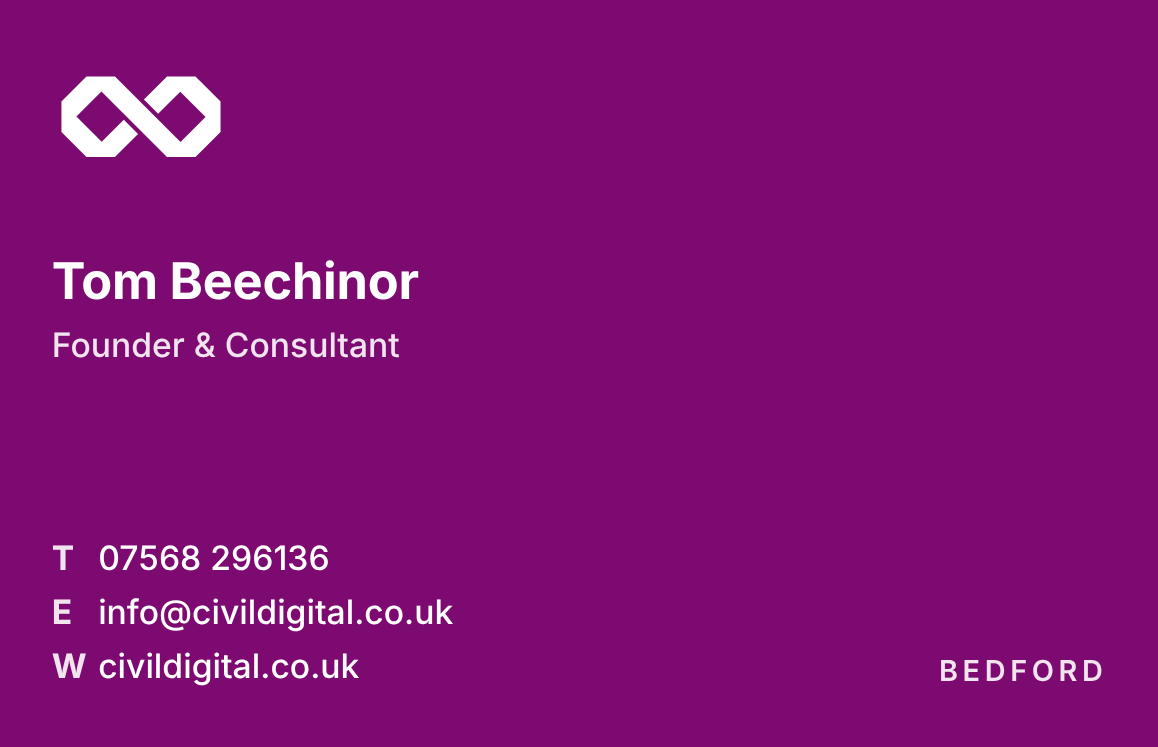
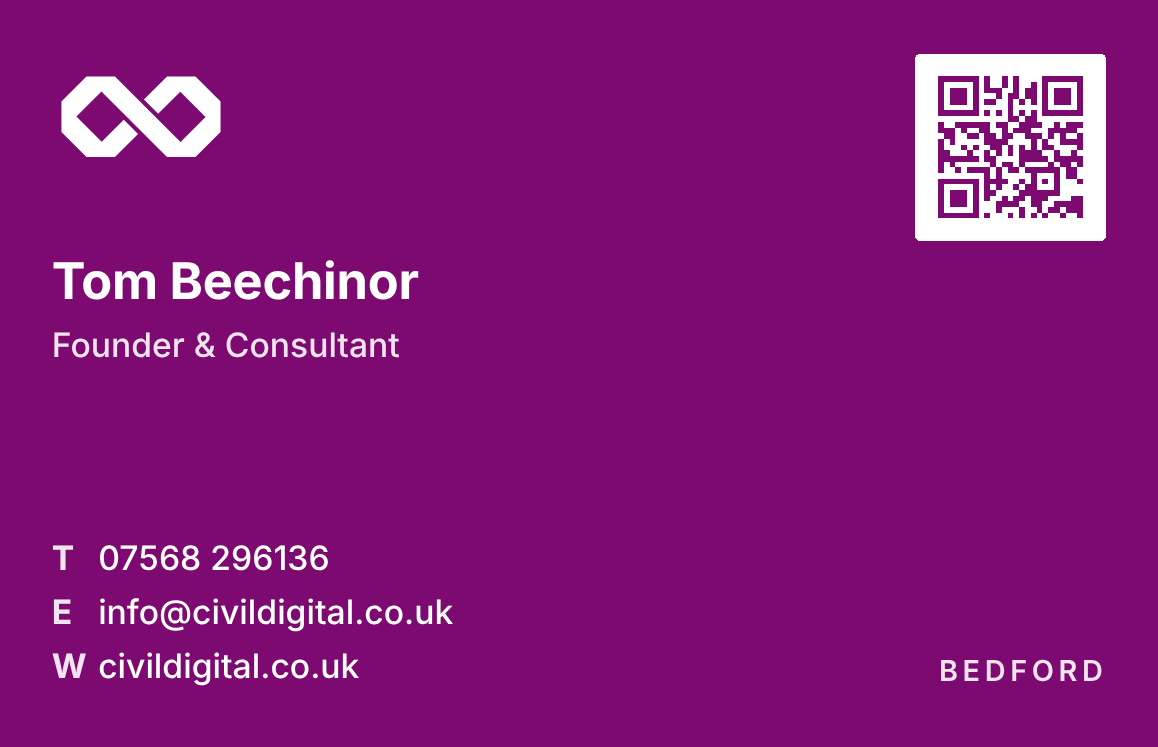
Business cards: QR code to civildigital.co.uk on the back
14mm plum-on-white QR (version 2, ECC M, 4-module quiet zone) in the
top right, generated as vector SVG by make-qr.py.

Claude-Session: https://claude.ai/code/session_01S9fFBHi5pCMoDRq2QMyZdX

Changed region(s): [[0.7772, 0.0616, 0.9637, 0.3387]]

diff --git a/docs/business-cards/business-cards.html b/docs/business-cards/business-cards.html
@@ -70,6 +70,9 @@
   .back .mark {
     position: absolute; left: var(--safe); top: calc(var(--safe) - 1.8mm); width: 13mm;
   }
+  .back .qr {
+    position: absolute; right: var(--safe); top: var(--safe); width: 14mm; height: 14mm;
+  }
   .back .who { position: absolute; left: var(--safe); top: calc(var(--bleed) + 19mm); }
   .back .name { font-size: 10.5pt; font-weight: 700; letter-spacing: -.005em; line-height: 1.2; }
   .back .role { font-size: 7pt; font-weight: 500; color: var(--on-plum); margin-top: .8mm; }
@@ -104,6 +107,7 @@
 
   <section class="card back" aria-label="Back">
     <img class="mark" src="../../assets/brand/CivilDigitalIconWhite.svg" alt="">
+    <img class="qr" src="qr-civildigital.svg" alt="QR code: civildigital.co.uk">
     <div class="who">
       <p class="name">Tom Beechinor</p>
       <p class="role">Founder &amp; Consultant</p>

diff --git a/docs/business-cards/make-qr.py b/docs/business-cards/make-qr.py
@@ -1,0 +1,42 @@
+"""Writes qr-civildigital.svg, the QR code on the back of the card.
+
+    python3 make-qr.py
+
+Links to https://civildigital.co.uk. Plum modules on a white tile; the tile
+is the standard 4-module quiet zone, so the code scans against the plum card.
+Version 2 (25 x 25), error correction M. Needs qrcode (pip install qrcode).
+"""
+from pathlib import Path
+
+import qrcode
+
+URL = 'https://civildigital.co.uk'
+INK = '#7d0a70'
+QUIET = 4
+
+qr = qrcode.QRCode(error_correction=qrcode.constants.ERROR_CORRECT_M, border=0)
+qr.add_data(URL)
+qr.make(fit=True)
+matrix = qr.get_matrix()
+size = len(matrix) + 2 * QUIET
+
+# One path, one bar per run of dark modules in a row (no seams between them)
+d = ''
+for y, row in enumerate(matrix):
+    x = 0
+    while x < len(row):
+        if row[x]:
+            run = x
+            while run < len(row) and row[run]:
+                run += 1
+            d += f'M{x + QUIET} {y + QUIET}h{run - x}v1h-{run - x}z'
+            x = run
+        else:
+            x += 1
+svg = f'''<svg xmlns="http://www.w3.org/2000/svg" viewBox="0 0 {size} {size}" width="{size}" height="{size}" shape-rendering="crispEdges">
+  <!-- QR code for {URL}, made by make-qr.py -->
+  <rect width="{size}" height="{size}" rx="1" fill="#ffffff"/>
+  <path fill="{INK}" d="{d}"/>
+</svg>
+'''
+Path(__file__).with_name('qr-civildigital.svg').write_text(svg)
